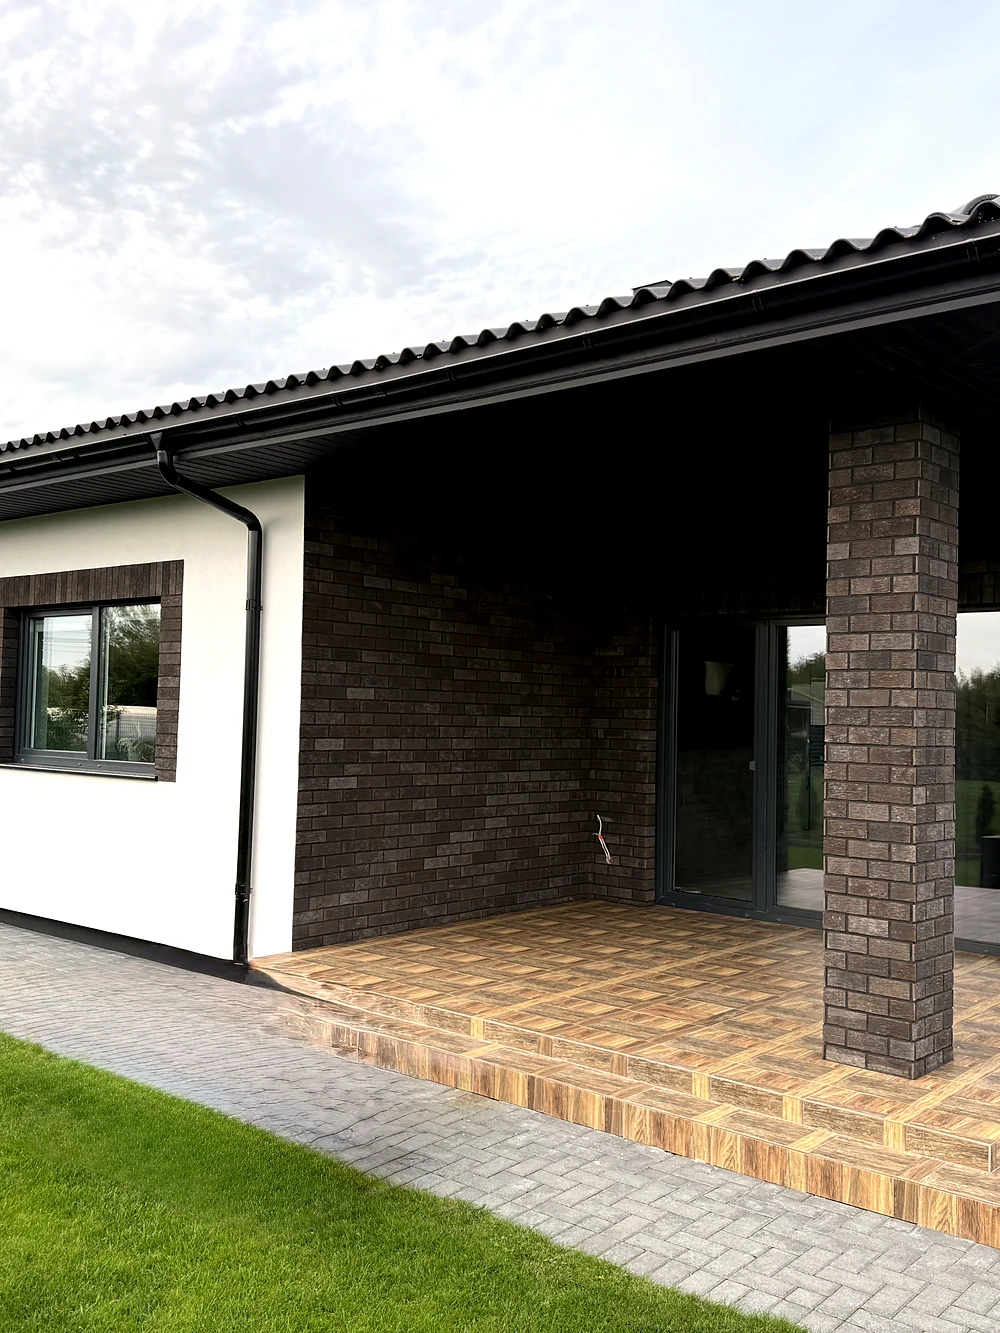
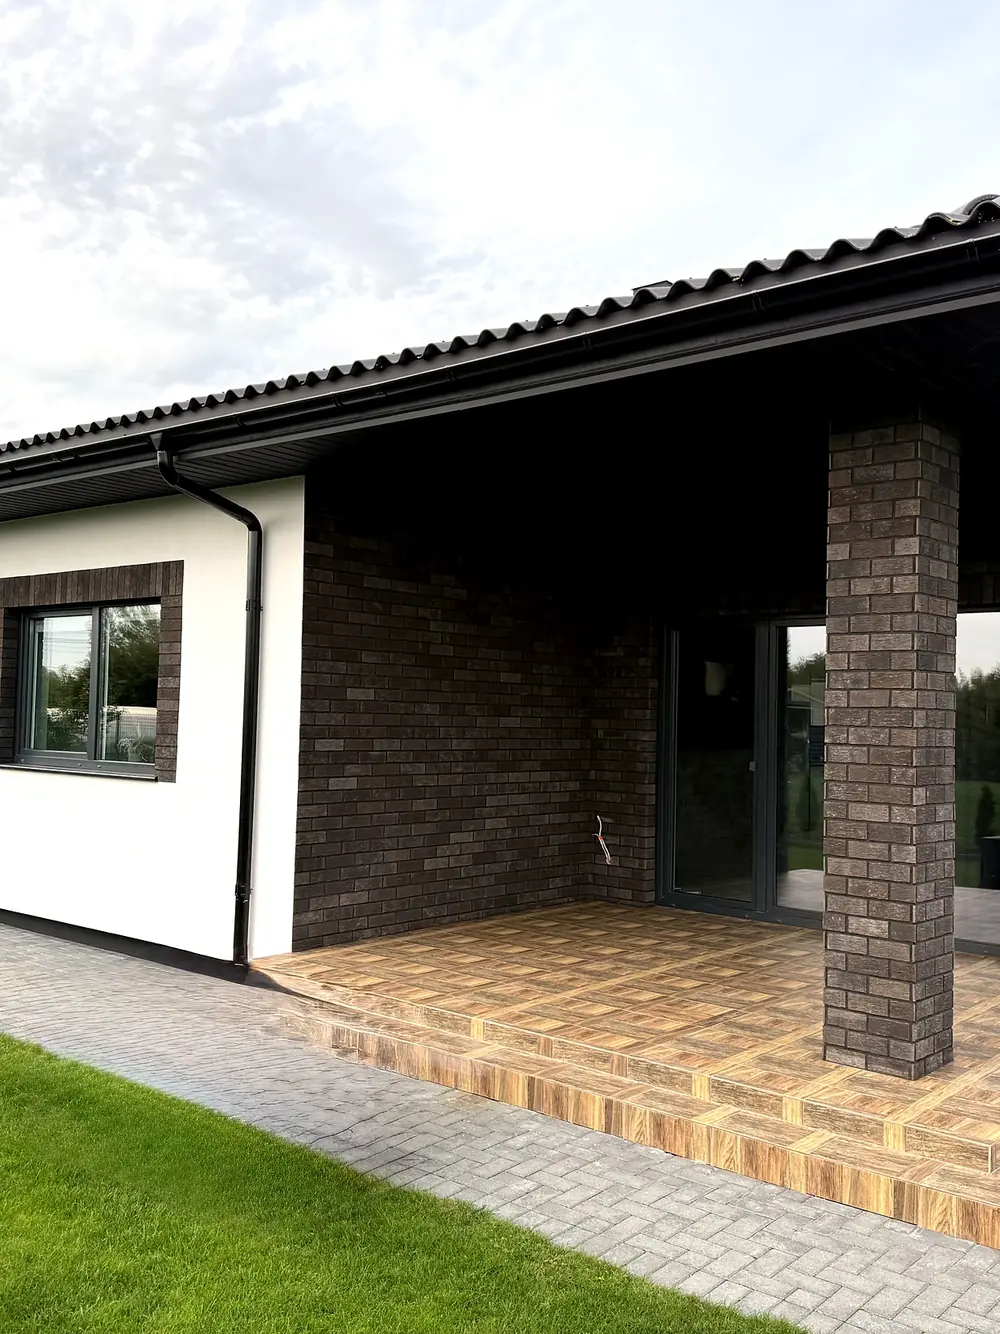
Greitis: savas Montserrat, lengvesnis mobilus hero, intro nebevėlina LCP
Google Fonts pakeistas savu 35 KB kintamu šriftu (400-700, tik lotynų ir
lietuviški simboliai) su preload ir Arial atsarginiu su Montserrat metrikomis,
kad hero tekstas nepašoktų (CLS 0). Mobilus hero 750/1000 perkoduotas
(175->89 KB, 306->157 KB) ir gavo preload. Intro nebeslepia nuotraukos ir
meniu: kadras nusėda tik per transform, žodžiai startuoja po DOMContentLoaded.

Changed region(s): [[0.031, 0.5536, 0.155, 0.5844]]

diff --git a/css/main.css b/css/main.css
@@ -1,6 +1,13 @@
 /* TSP Statyba. Light system, Montserrat, blue accent.
    Motion: reveal only (fade-up). No parallax, no carousels, no moving backgrounds. */
 
+/* Montserrat savame domene: 400–700 kintamas, tik lotynų + lietuviški simboliai (35 KB).
+   Atsarginis Arial su Montserrat metrikomis, kad keičiantis šriftui tekstas nepašoktų. */
+@font-face{font-family:"Montserrat";src:url("../fonts/montserrat-var.woff2") format("woff2");
+  font-weight:400 700;font-style:normal;font-display:swap}
+@font-face{font-family:"Montserrat Fallback";src:local("Arial"),local("ArialMT");
+  size-adjust:111.48%;ascent-override:86.83%;descent-override:22.52%;line-gap-override:0%}
+
 :root{
   --bg:#ffffff;
   --bg-alt:#f5f6f8;
@@ -12,7 +19,7 @@
   --line:#e2e6ea;
   --line-d:rgba(255,255,255,.14);
 
-  --font:"Montserrat",system-ui,-apple-system,"Segoe UI",sans-serif;
+  --font:"Montserrat","Montserrat Fallback",system-ui,-apple-system,"Segoe UI",sans-serif;
 
   --ease:cubic-bezier(.22,.61,.36,1);
   --ease-o:cubic-bezier(.16,1,.3,1);
@@ -147,27 +154,22 @@ h3{font-weight:600;letter-spacing:-.005em}
 .hero__cta{margin-top:30px}
 .hero h1 .w{display:inline-block}
 
-/* Hero intro, vienkartinis: nuotrauka nusėda, antraštė žodis po žodžio, tada tekstas ir mygtukas.
+/* Hero intro, vienkartinis: kadras nusėda, antraštė žodis po žodžio, tada tekstas ir mygtukas.
+   Nuotrauka ir meniu matomi nuo pirmo kadro (tik transform), kad nevėlintų LCP/FCP.
    Paslėpta būsena egzistuoja tik su html.intro (inline skriptas <head>, be reduced-motion). */
 .intro .hero{background:var(--dark)}
-.intro .hero__media{opacity:0;transform:scale(1.08);
-  transition:opacity 1s var(--ease-o),transform 2.4s var(--ease-o)}
-.intro .hero__scrim{opacity:0;transition:opacity 1s var(--ease-o)}
+.intro .hero__media{transform:scale(1.08);transition:transform 2.4s var(--ease-o)}
 .intro .hero h1 .w{opacity:0;transform:translateY(.42em);filter:blur(10px);
   transition:opacity .9s var(--ease-o),transform .9s var(--ease-o),filter .9s var(--ease-o);
-  transition-delay:calc(260ms + var(--i) * 75ms)}
+  transition-delay:calc(120ms + var(--i) * 75ms)}
 .intro .hero__sub,.intro .hero__cta{opacity:0;transform:translateY(16px);
   transition:opacity .8s var(--ease-o),transform .8s var(--ease-o)}
-.intro .hero__sub{transition-delay:720ms}
-.intro .hero__cta{transition-delay:840ms}
-.intro .nav{opacity:0;transform:translateY(-10px);
-  transition:opacity .7s var(--ease-o) .1s,transform .7s var(--ease-o) .1s}
+.intro .hero__sub{transition-delay:580ms}
+.intro .hero__cta{transition-delay:700ms}
 .intro.is-ready .hero__media,
-.intro.is-ready .hero__scrim,
 .intro.is-ready .hero h1 .w,
 .intro.is-ready .hero__sub,
-.intro.is-ready .hero__cta,
-.intro.is-ready .nav{opacity:1;transform:none;filter:none}
+.intro.is-ready .hero__cta{opacity:1;transform:none;filter:none}
 
 /* ---------- intro ---------- */
 .intro__grid{display:grid;grid-template-columns:minmax(0,.66fr) minmax(0,1fr);

diff --git a/index.html b/index.html
@@ -21,13 +21,14 @@
 <meta property="og:image:height" content="630">
 <meta name="twitter:card" content="summary_large_image">
 
-<link rel="preconnect" href="https://fonts.googleapis.com">
-<link rel="preconnect" href="https://fonts.gstatic.com" crossorigin>
-<link href="https://fonts.googleapis.com/css2?family=Montserrat:wght@400;600;700&display=swap" rel="stylesheet">
+<link rel="preload" href="/fonts/montserrat-var.woff2" as="font" type="font/woff2" crossorigin>
 <link rel="preload" as="image" href="img/hero-2048.webp"
       imagesrcset="img/hero-1600.webp 1600w, img/hero-2048.webp 2048w"
       imagesizes="100vw" fetchpriority="high" media="(min-width:760px)">
-<link rel="stylesheet" href="css/main.css?v=20260926">
+<link rel="preload" as="image" href="img/hero-m-750.webp"
+      imagesrcset="img/hero-m-750.webp 750w, img/hero-m-1000.webp 1000w, img/hero-m-1229.webp 1229w"
+      imagesizes="100vw" fetchpriority="high" media="(max-width:759px)">
+<link rel="stylesheet" href="css/main.css?v=20260926b">
 
 <script type="application/ld+json">
 {"@context":"https://schema.org","@type":"HomeAndConstructionBusiness",
@@ -39,24 +40,21 @@
 "sameAs":["https://www.facebook.com/TSPstatyba","https://www.instagram.com/tavo_statybu_partneris/"]}
 </script>
 <script>
-/* Hero intro: paslėpta būsena tik kai judesys leidžiamas; rodoma užsikrovus nuotraukai arba po 1,8 s */
+/* Hero intro: paslėpta būsena tik kai judesys leidžiamas; paleidžiama iškart po DOM, ne po nuotraukos */
 (function(){
   if (matchMedia('(prefers-reduced-motion: reduce)').matches) return;
   var d=document.documentElement; d.classList.add('intro');
   var done=0;
   function go(){
     if(done++) return;
-    requestAnimationFrame(function(){
+    requestAnimationFrame(function(){ requestAnimationFrame(function(){
       d.classList.add('is-ready');
-      /* po intro nuimam klases: lieka tik įprasti hero ir meniu stiliai */
-      setTimeout(function(){ d.classList.remove('intro','is-ready'); },3500);
-    });
+      /* po intro nuimam klases: lieka tik įprasti hero stiliai */
+      setTimeout(function(){ d.classList.remove('intro','is-ready'); },3000);
+    }); });
   }
-  setTimeout(go,1800);
-  document.addEventListener('DOMContentLoaded',function(){
-    var i=document.querySelector('#hero img'); if(!i) return go();
-    if(i.complete) go(); else { i.addEventListener('load',go); i.addEventListener('error',go); }
-  });
+  document.addEventListener('DOMContentLoaded',go);
+  setTimeout(go,1200);
 })();
 </script>
 </head>
@@ -502,7 +500,7 @@
   <a href="#kontaktai">Gauti pasiūlymą</a>
 </div>
 
-<script src="js/lenis.min.js?v=20260926" defer></script>
-<script src="js/main.js?v=20260926" defer></script>
+<script src="js/lenis.min.js?v=20260926b" defer></script>
+<script src="js/main.js?v=20260926b" defer></script>
 </body>
 </html>

diff --git a/paslaugos/renovacija-ir-statyba/index.html b/paslaugos/renovacija-ir-statyba/index.html
@@ -19,11 +19,9 @@
 <meta property="og:image" content="https://tspstatyba.lt/img/og.jpg">
 <meta name="twitter:card" content="summary_large_image">
 
-<link rel="preconnect" href="https://fonts.googleapis.com">
-<link rel="preconnect" href="https://fonts.gstatic.com" crossorigin>
-<link href="https://fonts.googleapis.com/css2?family=Montserrat:wght@400;600;700&display=swap" rel="stylesheet">
+<link rel="preload" href="/fonts/montserrat-var.woff2" as="font" type="font/woff2" crossorigin>
 <link rel="preload" as="image" href="/img/sv-renovacija-1400.webp" imagesrcset="/img/sv-renovacija-1000.webp 1000w, /img/sv-renovacija-1400.webp 1400w" imagesizes="100vw" fetchpriority="high">
-<link rel="stylesheet" href="/css/main.css?v=20260926">
+<link rel="stylesheet" href="/css/main.css?v=20260926b">
 
 <script type="application/ld+json">
 {"@context":"https://schema.org","@type":"Service","name":"Renovacija ir statyba",
@@ -177,7 +175,7 @@
   <a href="/#kontaktai">Gauti pasiūlymą</a>
 </div>
 
-<script src="/js/lenis.min.js?v=20260926" defer></script>
-<script src="/js/main.js?v=20260926" defer></script>
+<script src="/js/lenis.min.js?v=20260926b" defer></script>
+<script src="/js/main.js?v=20260926b" defer></script>
 </body>
 </html>

diff --git a/paslaugos/fasadai-ir-klinkeris/index.html b/paslaugos/fasadai-ir-klinkeris/index.html
@@ -19,11 +19,9 @@
 <meta property="og:image" content="https://tspstatyba.lt/img/og.jpg">
 <meta name="twitter:card" content="summary_large_image">
 
-<link rel="preconnect" href="https://fonts.googleapis.com">
-<link rel="preconnect" href="https://fonts.gstatic.com" crossorigin>
-<link href="https://fonts.googleapis.com/css2?family=Montserrat:wght@400;600;700&display=swap" rel="stylesheet">
+<link rel="preload" href="/fonts/montserrat-var.woff2" as="font" type="font/woff2" crossorigin>
 <link rel="preload" as="image" href="/img/w1-a-1800.webp" imagesrcset="/img/w1-a-900.webp 900w, /img/w1-a-1600.webp 1600w, /img/w1-a-1800.webp 1800w" imagesizes="100vw" fetchpriority="high">
-<link rel="stylesheet" href="/css/main.css?v=20260926">
+<link rel="stylesheet" href="/css/main.css?v=20260926b">
 
 <script type="application/ld+json">
 {"@context":"https://schema.org","@type":"Service","name":"Fasadai ir klinkeris",
@@ -177,7 +175,7 @@
   <a href="/#kontaktai">Gauti pasiūlymą</a>
 </div>
 
-<script src="/js/lenis.min.js?v=20260926" defer></script>
-<script src="/js/main.js?v=20260926" defer></script>
+<script src="/js/lenis.min.js?v=20260926b" defer></script>
+<script src="/js/main.js?v=20260926b" defer></script>
 </body>
 </html>

diff --git a/paslaugos/siltinimas/index.html b/paslaugos/siltinimas/index.html
@@ -19,11 +19,9 @@
 <meta property="og:image" content="https://tspstatyba.lt/img/og.jpg">
 <meta name="twitter:card" content="summary_large_image">
 
-<link rel="preconnect" href="https://fonts.googleapis.com">
-<link rel="preconnect" href="https://fonts.gstatic.com" crossorigin>
-<link href="https://fonts.googleapis.com/css2?family=Montserrat:wght@400;600;700&display=swap" rel="stylesheet">
+<link rel="preload" href="/fonts/montserrat-var.woff2" as="font" type="font/woff2" crossorigin>
 <link rel="preload" as="image" href="/img/w5-1400.webp" imagesrcset="/img/w5-900.webp 900w, /img/w5-1400.webp 1400w, /img/w5-2048.webp 2048w" imagesizes="100vw" fetchpriority="high">
-<link rel="stylesheet" href="/css/main.css?v=20260926">
+<link rel="stylesheet" href="/css/main.css?v=20260926b">
 
 <script type="application/ld+json">
 {"@context":"https://schema.org","@type":"Service","name":"Šiltinimas",
@@ -177,7 +175,7 @@
   <a href="/#kontaktai">Gauti pasiūlymą</a>
 </div>
 
-<script src="/js/lenis.min.js?v=20260926" defer></script>
-<script src="/js/main.js?v=20260926" defer></script>
+<script src="/js/lenis.min.js?v=20260926b" defer></script>
+<script src="/js/main.js?v=20260926b" defer></script>
 </body>
 </html>

diff --git a/paslaugos/vidaus-apdaila/index.html b/paslaugos/vidaus-apdaila/index.html
@@ -19,11 +19,9 @@
 <meta property="og:image" content="https://tspstatyba.lt/img/og.jpg">
 <meta name="twitter:card" content="summary_large_image">
 
-<link rel="preconnect" href="https://fonts.googleapis.com">
-<link rel="preconnect" href="https://fonts.gstatic.com" crossorigin>
-<link href="https://fonts.googleapis.com/css2?family=Montserrat:wght@400;600;700&display=swap" rel="stylesheet">
+<link rel="preload" href="/fonts/montserrat-var.woff2" as="font" type="font/woff2" crossorigin>
 <link rel="preload" as="image" href="/img/w3-a-1600.webp" imagesrcset="/img/w3-a-900.webp 900w, /img/w3-a-1600.webp 1600w" imagesizes="100vw" fetchpriority="high">
-<link rel="stylesheet" href="/css/main.css?v=20260926">
+<link rel="stylesheet" href="/css/main.css?v=20260926b">
 
 <script type="application/ld+json">
 {"@context":"https://schema.org","@type":"Service","name":"Vidaus apdaila",
@@ -177,7 +175,7 @@
   <a href="/#kontaktai">Gauti pasiūlymą</a>
 </div>
 
-<script src="/js/lenis.min.js?v=20260926" defer></script>
-<script src="/js/main.js?v=20260926" defer></script>
+<script src="/js/lenis.min.js?v=20260926b" defer></script>
+<script src="/js/main.js?v=20260926b" defer></script>
 </body>
 </html>

diff --git a/gen.py b/gen.py
@@ -217,11 +217,9 @@ PAGE = '''<!doctype html>
 <meta property="og:image" content="https://tspstatyba.lt/img/og.jpg">
 <meta name="twitter:card" content="summary_large_image">
 
-<link rel="preconnect" href="https://fonts.googleapis.com">
-<link rel="preconnect" href="https://fonts.gstatic.com" crossorigin>
-<link href="https://fonts.googleapis.com/css2?family=Montserrat:wght@400;600;700&display=swap" rel="stylesheet">
+<link rel="preload" href="/fonts/montserrat-var.woff2" as="font" type="font/woff2" crossorigin>
 <link rel="preload" as="image" href="/img/{heroimg}" imagesrcset="{herosrcset}" imagesizes="100vw" fetchpriority="high">
-<link rel="stylesheet" href="/css/main.css?v=20260926">
+<link rel="stylesheet" href="/css/main.css?v=20260926b">
 
 <script type="application/ld+json">
 {{"@context":"https://schema.org","@type":"Service","name":"{name}",
@@ -313,7 +311,7 @@ PAGE = '''<!doctype html>
 
 {foot}
 
-<script src="/js/lenis.min.js?v=20260926" defer></script>\n<script src="/js/main.js?v=20260926" defer></script>
+<script src="/js/lenis.min.js?v=20260926b" defer></script>\n<script src="/js/main.js?v=20260926b" defer></script>
 </body>
 </html>
 '''
